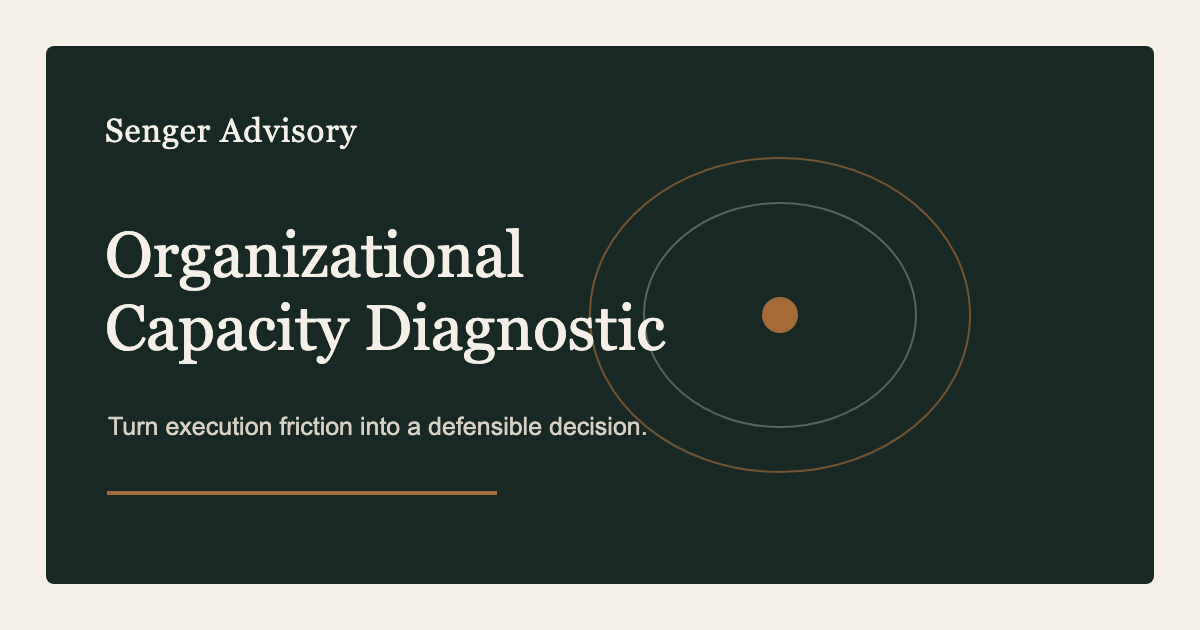
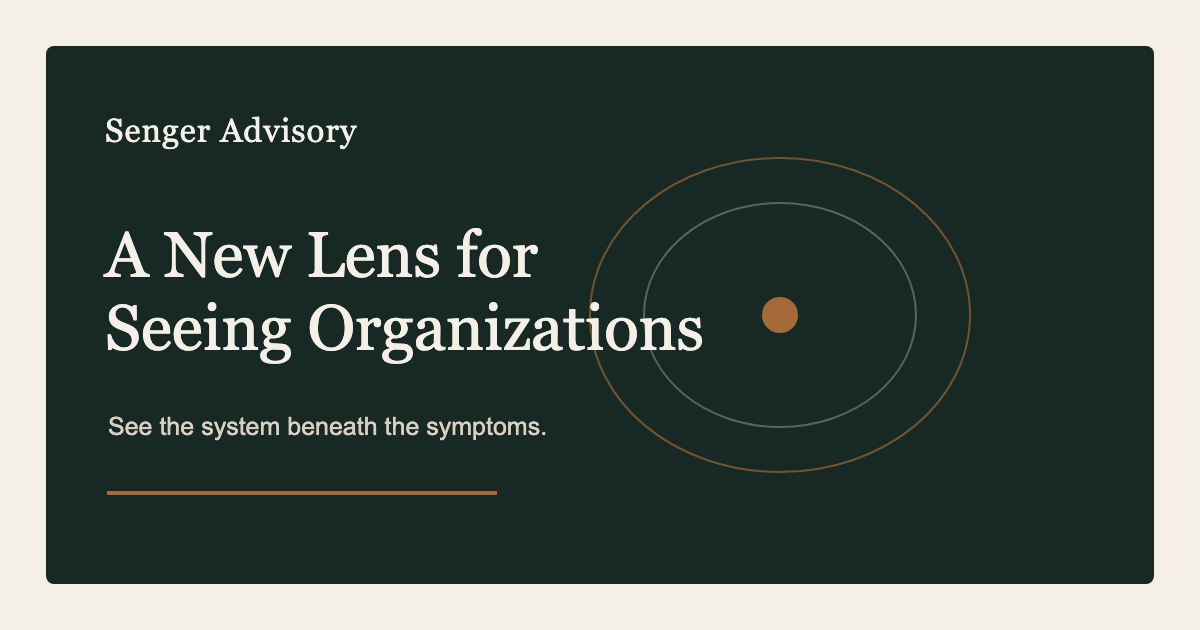
Position Senger Advisory around the Capacity Lens

Changed region(s): [[0.0925, 0.3619, 0.5858, 0.573], [0.0925, 0.6635, 0.555, 0.6937]]

diff --git a/index.html b/index.html
@@ -3,13 +3,13 @@
 <head>
   <meta charset="utf-8" />
   <meta name="viewport" content="width=device-width, initial-scale=1" />
-  <title>Senger Advisory | Organizational Capacity Diagnostic</title>
-  <meta name="description" content="Senger Advisory helps growing organizations measure and expand organizational capacity before complexity becomes friction, value leakage, and slower execution." />
+  <title>Senger Advisory | A New Lens for Seeing Organizations</title>
+  <meta name="description" content="The Capacity Lens helps leaders see how complexity, decisions, leadership, systems, and culture shape the way their organization actually works." />
 
   <meta property="og:type" content="website" />
   <meta property="og:site_name" content="Senger Advisory" />
-  <meta property="og:title" content="Senger Advisory | Organizational Capacity Diagnostic" />
-  <meta property="og:description" content="Senger Advisory helps growing organizations measure and expand organizational capacity before complexity becomes friction, value leakage, and slower execution." />
+  <meta property="og:title" content="Senger Advisory | The Capacity Lens" />
+  <meta property="og:description" content="A new lens for seeing how organizations actually work—and where complexity begins to slow execution." />
   <meta property="og:url" content="https://sengeradvisory.com/" />
     <meta property="og:image" content="https://sengeradvisory.com/assets/senger-advisory-social.png" />
     <meta property="og:image:type" content="image/png" />
@@ -31,7 +31,7 @@
         "name": "Senger Advisory",
         "url": "https://sengeradvisory.com/",
         "logo": "https://sengeradvisory.com/assets/favicon.svg",
-        "description": "Senger Advisory helps growing organizations measure and expand organizational capacity before complexity becomes friction, value leakage, and slower execution.",
+        "description": "Senger Advisory gives leaders a new lens for seeing how complexity, decisions, leadership, systems, and culture shape the way their organization actually works.",
         "founder": {"@id": "https://sengeradvisory.com/#jonathan-senger"},
         "knowsAbout": ["Organizational capacity", "Organizational diagnostics", "Decision velocity", "Leadership systems", "Operating rhythm", "AI readiness"]
       },
@@ -97,9 +97,9 @@
       </div>
 
       <div class="hero-copy">
-        <p class="eyebrow">Organizational Capacity Diagnostic</p>
+        <p class="eyebrow">A New Lens for Seeing Organizations</p>
 
-        <h1 class="sr-only">Capacity changes how work moves. Organizational Capacity determines whether growth becomes momentum or friction.</h1>
+        <h1 class="sr-only">The Capacity Lens helps leaders see how their organization actually works—and where complexity begins to slow execution.</h1>
 
         <p class="hero-narrative-title" aria-hidden="true">
           <span data-hero-title-primary>Growth should</span>
@@ -111,13 +111,13 @@
         </p>
 
         <div class="hero-actions">
-          <a class="button primary" href="diagnostic.html">Measure Organizational Capacity</a>
-          <a class="button secondary" href="#pattern">See the Pattern</a>
+          <a class="button primary" href="framework.html">Explore the Capacity Lens</a>
+          <a class="button secondary" href="#pattern">See Your Organization Differently</a>
         </div>
       </div>
 
       <p class="capacity-lens-prompt" data-lens-prompt aria-hidden="true">
-        Move through the system to reveal higher capacity.
+        Move through the system to reveal the Capacity Lens.
       </p>
     </section>
 
@@ -149,7 +149,7 @@
     <section id="framework" class="section framework-section">
       <div class="section-inner">
         <p class="eyebrow">The Framework</p>
-        <h2>Every organization has capacity. Almost none measure it.</h2>
+        <h2>Every organization has capacity. The Capacity Lens makes it visible.</h2>
 
        <div class="capacity-system" id="capacitySystem">
   <svg class="capacity-lines" viewBox="0 0 1000 700" preserveAspectRatio="none" aria-hidden="true">
@@ -212,8 +212,8 @@
 
     <section class="diagnosis-shift">
       <div class="diagnosis-copy">
-        <h2>Everyone has a prescription.</h2>
-        <h2>Very few have a diagnosis.</h2>
+        <h2>Everyone sees the symptoms.</h2>
+        <h2>Very few see the system.</h2>
       </div>
 
       <div class="prescription-list">
@@ -226,19 +226,19 @@
       </div>
 
       <p>
-        None of them matter if you don’t know where capacity is constrained.
+        A prescription only fits when you can see the conditions shaping how work moves.
       </p>
     </section>
 
     <section id="diagnostic" class="section diagnostic-section">
   <div class="section-inner diagnostic-layout">
     <div class="diagnostic-copy">
-      <p class="eyebrow">The Diagnostic</p>
-      <h2>Move from capacity signals to a defensible diagnosis.</h2>
+      <p class="eyebrow">From Lens to Evidence</p>
+      <h2>Turn a clearer view of the organization into a defensible path forward.</h2>
       <p>
         The free assessment indicates what your organization may be experiencing. The
-        Organizational Capacity Diagnostic gathers confidential, multi-perspective evidence
-        to identify the strongest constraint hypothesis and guide the right intervention.
+        Organizational Capacity Diagnostic applies the Capacity Lens through confidential,
+        multi-perspective evidence to identify the strongest constraint hypothesis and guide the right intervention.
       </p>
       <div class="hero-actions diagnostic-actions">
         <a class="button primary" href="diagnostic.html">Explore the Diagnostic</a>
@@ -277,8 +277,8 @@
           <p>Map the visible symptoms.</p>
         </div>
         <div>
-          <span>Diagnose</span>
-          <p>Locate the capacity constraint.</p>
+          <span>Interpret</span>
+          <p>See the system beneath them.</p>
         </div>
         <div>
           <span>Focus</span>
@@ -367,7 +367,7 @@
         <textarea name="message" rows="5" placeholder="Slower decisions, meeting drag, unclear ownership, change fatigue, AI readiness, execution slowdown..."></textarea>
       </label>
 
-      <button class="button primary" type="submit">Start the Diagnostic Conversation</button>
+      <button class="button primary" type="submit">Start a Capacity Conversation</button>
     </form>
   </div>
 </section>

diff --git a/diagnostic.html b/diagnostic.html
@@ -4,11 +4,11 @@
   <meta charset="utf-8" />
   <meta name="viewport" content="width=device-width, initial-scale=1" />
   <title>Organizational Capacity Diagnostic | Senger Advisory</title>
-  <meta name="description" content="A diagnostic for identifying where complexity is slowing execution, leaking value, and overloading leaders." />
+  <meta name="description" content="Apply the Capacity Lens through confidential, multi-perspective evidence to see how the organization works and choose what to change." />
   <meta property="og:type" content="website" />
   <meta property="og:site_name" content="Senger Advisory" />
   <meta property="og:title" content="Organizational Capacity Diagnostic | Senger Advisory" />
-  <meta property="og:description" content="A diagnostic for identifying where complexity is slowing execution, leaking value, and overloading leaders." />
+  <meta property="og:description" content="Apply the Capacity Lens through confidential, multi-perspective evidence to see how the organization works and choose what to change." />
   <meta property="og:url" content="https://sengeradvisory.com/diagnostic.html" />
     <meta property="og:image" content="https://sengeradvisory.com/assets/senger-advisory-social.png" />
     <meta property="og:image:type" content="image/png" />
@@ -40,15 +40,15 @@
   <main id="main-content">
     <section class="page-hero">
       <p class="eyebrow">The Diagnostic</p>
-      <h1>Diagnose capacity before prescribing change.</h1>
-      <p class="page-lede">Most organizations reach for interventions too quickly: reorganization, training, AI, coaching, new tools, new meetings. The diagnostic slows the instinct to prescribe and identifies where capacity is actually constrained.</p>
+      <h1>See the organization clearly before choosing what to change.</h1>
+      <p class="page-lede">Most organizations reach for interventions too quickly: reorganization, training, AI, coaching, new tools, new meetings. The diagnostic applies the Capacity Lens to reveal the system beneath the symptoms before leaders commit to a solution.</p>
     </section>
 
     <section class="section diagnostic-section">
       <div class="section-inner diagnostic-layout">
         <div class="diagnostic-copy">
           <p class="eyebrow">What it reveals</p>
-          <h2>The diagnostic moves beyond signals to a defensible organizational hypothesis.</h2>
+          <h2>The diagnostic turns the Capacity Lens into a defensible organizational hypothesis.</h2>
           <p>The free assessment suggests what an organization may be experiencing. The paid diagnostic investigates why: it gathers confidential evidence across informed perspectives, tests competing explanations, and connects the strongest constraint hypothesis to a recommended intervention.</p>
           <div class="hero-actions diagnostic-actions">
             <a class="button primary" href="contact.html">Explore the Diagnostic</a>
@@ -65,7 +65,7 @@
             <div><span>04</span><p>AI and technology projects stall because ownership is unclear.</p></div>
           </div>
           <div class="diagnostic-steps">
-            <div><span>Discover</span><p>Surface symptoms.</p></div><div><span>Diagnose</span><p>Locate constraints.</p></div><div><span>Focus</span><p>Target interventions.</p></div>
+            <div><span>Observe</span><p>Surface symptoms.</p></div><div><span>Interpret</span><p>See the system.</p></div><div><span>Focus</span><p>Target interventions.</p></div>
           </div>
         </div>
       </div>
@@ -80,8 +80,8 @@
           <article><span>02</span><h3>Participant design</h3><p>Select informed perspectives and identify coverage gaps before evidence collection begins.</p></article>
           <article><span>03</span><h3>Guided interviews</h3><p>Use one contextualized question protocol to gather confidential operating examples from every participant.</p></article>
           <article><span>04</span><h3>Evidence synthesis</h3><p>De-identify responses and examine convergence, meaningful variation, contradictions, and blind spots.</p></article>
-          <article><span>05</span><h3>Diagnostic finding</h3><p>Develop the strongest constraint hypothesis, show the supporting evidence, and test competing explanations.</p></article>
-          <article><span>06</span><h3>Intervention recommendation</h3><p>Translate the diagnosis into an appropriately scaled intervention, evidence plan, and reassessment path.</p></article>
+          <article><span>05</span><h3>Capacity finding</h3><p>Develop the strongest constraint hypothesis, show the supporting evidence, and test competing explanations.</p></article>
+          <article><span>06</span><h3>Focused intervention</h3><p>Translate the finding into an appropriately scaled intervention, evidence plan, and reassessment path.</p></article>
         </div>
       </div>
     </section>

diff --git a/framework.html b/framework.html
@@ -4,11 +4,11 @@
   <meta charset="utf-8" />
   <meta name="viewport" content="width=device-width, initial-scale=1" />
   <title>The Organizational Capacity Model | Senger Advisory</title>
-  <meta name="description" content="A management model for understanding why growing organizations slow down and how to diagnose capacity constraints before execution stalls." />
+  <meta name="description" content="The Capacity Lens gives leaders a new way to see how strategy, leadership, organizational systems, and execution shape one another." />
   <meta property="og:type" content="website" />
   <meta property="og:site_name" content="Senger Advisory" />
   <meta property="og:title" content="The Organizational Capacity Model | Senger Advisory" />
-  <meta property="og:description" content="A management model for understanding why growing organizations slow down and how to diagnose capacity constraints before execution stalls." />
+  <meta property="og:description" content="A new lens for seeing the system beneath organizational symptoms and understanding how work actually moves." />
   <meta property="og:url" content="https://sengeradvisory.com/framework.html" />
     <meta property="og:image" content="https://sengeradvisory.com/assets/senger-advisory-social.png" />
     <meta property="og:image:type" content="image/png" />
@@ -39,9 +39,9 @@
   </header>
   <main id="main-content">
     <section class="page-hero model-hero">
-      <p class="eyebrow">The Model</p>
+      <p class="eyebrow">The Capacity Lens</p>
       <h1>Growth creates complexity faster than organizational capacity evolves.</h1>
-      <p class="page-lede">The Organizational Capacity Model explains why execution slows inside otherwise successful companies. It connects strategy, leadership, operating systems, flow, and outcomes into one practical diagnostic lens.</p>
+      <p class="page-lede">The Capacity Lens gives leaders a new way to see the organization: how strategy, leadership, operating systems, flow, and outcomes shape one another beneath the visible symptoms.</p>
     </section>
 
     <section class="section model-section">
@@ -77,7 +77,7 @@
         <p class="eyebrow">The Shift</p>
         <h2>Organizational Capacity turns execution from a personality problem into a system problem.</h2>
         <div class="content-grid">
-          <article><h3>From blame to diagnosis</h3><p>Instead of asking who is not keeping up, the model asks where the system is constrained.</p></article>
+          <article><h3>From blame to visibility</h3><p>Instead of asking who is not keeping up, the lens reveals the conditions shaping how work moves.</p></article>
           <article><h3>From symptoms to signals</h3><p>Slow decisions, meeting drag, change fatigue, and unclear ownership become measurable signals.</p></article>
           <article><h3>From prescriptions to fit</h3><p>AI, reorgs, training, and coaching are useful only when aimed at the right constraint.</p></article>
         </div>
@@ -101,7 +101,7 @@
 
     <section class="section connect-section compact-cta">
       <div class="section-inner connect-layout">
-        <div class="connect-copy"><p class="eyebrow">Next</p><h2>Measure the capacity your strategy depends on.</h2></div>
+        <div class="connect-copy"><p class="eyebrow">Next</p><h2>See the capacity your strategy depends on.</h2></div>
         <a class="button primary" href="diagnostic.html">Explore the Diagnostic</a>
       </div>
     </section>

diff --git a/platform-journey.html b/platform-journey.html
@@ -4,7 +4,7 @@
   <meta charset="utf-8" />
   <meta name="viewport" content="width=device-width, initial-scale=1" />
   <title>Platform Journey | Senger Advisory</title>
-  <meta name="description" content="Follow the Senger Advisory Organizational Capacity Platform from executive concern through confidential diagnosis, focused intervention, and measurable next action." />
+  <meta name="description" content="See how the Capacity Lens moves from an executive concern to confidential evidence, a shared organizational view, focused action, and reassessment." />
   <meta property="og:type" content="website" />
   <meta property="og:site_name" content="Senger Advisory" />
   <meta property="og:title" content="Platform Journey | Senger Advisory" />
@@ -36,14 +36,14 @@
     <section class="journey-orientation" data-orientation>
       <div>
         <p class="eyebrow">Executive Sponsor Journey · approximately 5 minutes</p>
-        <h1>See how organizational uncertainty becomes a defensible decision.</h1>
-        <p>Follow one executive sponsor through the same governed process your leadership team would experience—from the first concern through diagnosis, intervention, and reassessment.</p>
+        <h1>See how an organization comes into focus.</h1>
+        <p>Follow one executive sponsor as the Capacity Lens moves from an initial concern to a shared organizational view, focused intervention, and reassessment.</p>
         <div class="orientation-actions"><button class="button primary" type="button" data-start-journey>Start the Journey</button><button class="button secondary" type="button" data-jump-destination>Jump to the Capacity Operating Brief</button></div>
         <small class="demo-data-note">Fictional case · Nothing is saved, submitted, or connected to a live client workspace.</small>
       </div>
       <aside class="orientation-map" aria-label="Journey overview">
         <p>What you will experience</p>
-        <ol><li><span>01</span>Frame the decision</li><li><span>02</span>Build the perspective</li><li><span>03</span>Reach a defensible finding</li><li><span>04</span>Turn diagnosis into action</li><li><span>05</span>Operate, learn, and reassess</li></ol>
+        <ol><li><span>01</span>Frame the decision</li><li><span>02</span>Build the perspective</li><li><span>03</span>Bring the system into view</li><li><span>04</span>Turn insight into action</li><li><span>05</span>Operate, learn, and reassess</li></ol>
       </aside>
     </section>
     <section class="executive-journey" data-journey hidden aria-live="polite">
@@ -66,7 +66,7 @@
       </section>
     </section>
     <section class="journey-conversion">
-      <div><p class="eyebrow">Your organization is not fictional</p><h2>What decision is execution friction putting at risk?</h2><p>Begin with a lightweight signal, or discuss whether the full diagnostic fits the decision you need to make.</p></div>
+      <div><p class="eyebrow">Your organization is not fictional</p><h2>What would become possible if you could see the system more clearly?</h2><p>Begin with a lightweight signal, or discuss whether the full diagnostic fits the decision you need to make.</p></div>
       <div><a class="button primary" href="contact.html">Request a Guided Walkthrough</a><a class="button secondary" href="assessment.html">Take the Free Assessment</a></div>
     </section>
   </main>

diff --git a/about.html b/about.html
@@ -4,11 +4,11 @@
   <meta charset="utf-8" />
   <meta name="viewport" content="width=device-width, initial-scale=1" />
   <title>About Senger Advisory | Organizational Capacity for Growth</title>
-  <meta name="description" content="Senger Advisory helps leaders diagnose and expand organizational capacity so growth does not become friction." />
+  <meta name="description" content="Senger Advisory gives leaders a new lens for seeing how their organization works and where capacity can expand." />
   <meta property="og:type" content="website" />
   <meta property="og:site_name" content="Senger Advisory" />
   <meta property="og:title" content="About Senger Advisory | Organizational Capacity for Growth" />
-  <meta property="og:description" content="Senger Advisory helps leaders diagnose and expand organizational capacity so growth does not become friction." />
+  <meta property="og:description" content="Senger Advisory gives leaders a new lens for seeing how their organization works and where capacity can expand." />
   <meta property="og:url" content="https://sengeradvisory.com/about.html" />
     <meta property="og:image" content="https://sengeradvisory.com/assets/senger-advisory-social.png" />
     <meta property="og:image:type" content="image/png" />
@@ -55,7 +55,7 @@
     <section class="section">
       <div class="section-inner two-column">
         <div><p class="eyebrow">Point of View</p><h2>Leadership matters. So does the system leaders are operating inside.</h2></div>
-        <div class="page-copy-block"><p>Senger Advisory helps executives see what is happening beneath visible symptoms: slow decisions, unclear ownership, meeting debt, change fatigue, and technology initiatives that do not translate into execution leverage.</p><p>The work begins with diagnosis. Once the constraint is visible, interventions become focused: leadership alignment, decision rights, operating rhythm, AI readiness, execution systems, and capacity expansion.</p></div>
+        <div class="page-copy-block"><p>Senger Advisory helps executives see what is happening beneath visible symptoms: slow decisions, unclear ownership, meeting debt, change fatigue, and technology initiatives that do not translate into execution leverage.</p><p>The Capacity Lens makes the underlying system visible. Once leaders can see the conditions shaping how work moves, interventions become focused: leadership alignment, decision rights, operating rhythm, AI readiness, execution systems, and capacity expansion.</p></div>
       </div>
     </section>
   </main>

diff --git a/contact.html b/contact.html
@@ -41,18 +41,18 @@
     <section class="page-hero dark-page-hero">
       <p class="eyebrow">Connect</p>
       <h1>Start with what you’re seeing.</h1>
-      <p class="page-lede">If your organization has momentum but execution feels heavier than it should, the right first move is diagnosis.</p>
+      <p class="page-lede">If your organization has momentum but execution feels heavier than it should, the first move is seeing the system clearly.</p>
     </section>
     <section class="section connect-section contact-page-section">
       <div class="section-inner connect-layout">
-        <div class="connect-copy"><p class="eyebrow">Diagnostic Inquiry</p><h2>Share the friction. We’ll look for the capacity signal.</h2><p>Use this form for diagnostic conversations, presentation follow-up, or leadership-team inquiries.</p></div>
+        <div class="connect-copy"><p class="eyebrow">Capacity Conversation</p><h2>Share what you’re seeing. We’ll help you see what may be shaping it.</h2><p>Use this form for diagnostic conversations, presentation follow-up, or leadership-team inquiries.</p></div>
         <form class="contact-form" name="diagnostic-inquiry" method="POST" netlify action="/success.html">
           <input type="hidden" name="form-name" value="diagnostic-inquiry" />
           <label><span>Name</span><input type="text" name="name" autocomplete="name" required /></label>
           <label><span>Email</span><input type="email" name="email" autocomplete="email" required /></label>
           <label><span>Organization</span><input type="text" name="organization" autocomplete="organization" /></label>
           <label><span>What are you seeing?</span><textarea name="message" rows="6" placeholder="Slower decisions, meeting drag, unclear ownership, change fatigue, AI readiness, execution slowdown..."></textarea></label>
-          <button class="button primary" type="submit">Start the Diagnostic Conversation</button>
+          <button class="button primary" type="submit">Start a Capacity Conversation</button>
         </form>
       </div>
     </section>

diff --git a/signs.html b/signs.html
@@ -41,7 +41,7 @@
     <section class="page-hero dark-page-hero">
       <p class="eyebrow">Field Guide</p>
       <h1>Signs you’ve outgrown your organizational capacity.</h1>
-      <p class="page-lede">Growth rarely announces that the operating system is under strain. It shows up as small, familiar patterns that leaders can easily normalize.</p>
+      <p class="page-lede">Growth rarely announces that the operating system is under strain. The Capacity Lens turns small, familiar patterns into a clearer view of the system beneath them.</p>
     </section>
 
     <section class="section">
@@ -68,8 +68,8 @@
 
     <section class="section connect-section compact-cta">
       <div class="section-inner connect-layout">
-        <div class="connect-copy"><p class="eyebrow">Start Here</p><h2>Find the constraint before choosing the intervention.</h2></div>
-        <a class="button primary" href="contact.html">Start the Diagnostic Conversation</a>
+        <div class="connect-copy"><p class="eyebrow">Start Here</p><h2>See the system before choosing the intervention.</h2></div>
+        <a class="button primary" href="contact.html">Start a Capacity Conversation</a>
       </div>
     </section>
   </main>

diff --git a/script.js b/script.js
@@ -71,9 +71,9 @@ if ("IntersectionObserver" in window) {
       lede: "A local bottleneck becomes delay, rerouting, and friction across the organization."
     },
     resolution: {
-      primary: "Capacity changes",
-      secondary: "how work moves.",
-      lede: "Increase capacity and the same organization moves with greater speed, clarity, and confidence."
+      primary: "Now you can see",
+      secondary: "how the system moves.",
+      lede: "The Capacity Lens makes the forces shaping speed, clarity, and coordination visible."
     }
   };
 
@@ -114,8 +114,8 @@ if ("IntersectionObserver" in window) {
   window.setTimeout(() => {
     if (!resolved) {
       prompt.textContent = coarsePointer
-        ? "Touch and drag through the system to reveal higher capacity."
-        : "Move through the system to reveal higher capacity.";
+        ? "Touch and drag through the system to reveal the Capacity Lens."
+        : "Move through the system to reveal the Capacity Lens.";
       prompt.classList.add("visible");
     }
   }, 4800);

diff --git a/assessment.html b/assessment.html
@@ -44,7 +44,7 @@
       <div>
         <p class="eyebrow">Free Organizational Capacity Assessment</p>
         <h1>See where capacity may be under pressure.</h1>
-        <p class="page-lede">Use eighteen observable behaviors across six domains to identify likely capacity signals in about five minutes. This assessment offers directional insight; it is not the Organizational Capacity Diagnostic.</p>
+        <p class="page-lede">Take a first look through the Capacity Lens. Eighteen observable behaviors across six domains reveal likely capacity signals in about five minutes. This assessment offers directional insight; it is not the Organizational Capacity Diagnostic.</p>
       </div>
       <aside class="assessment-expectation" aria-label="Assessment details">
         <span>18 questions</span>

diff --git a/insights.html b/insights.html
@@ -41,7 +41,7 @@
     <section class="page-hero">
       <p class="eyebrow">Insights</p>
       <h1>Ideas for leaders scaling beyond their current operating system.</h1>
-      <p class="page-lede">Not blog posts. Working notes from the emerging discipline of Organizational Capacity.</p>
+      <p class="page-lede">Working notes that develop the Capacity Lens: a clearer way to understand how organizations grow, strain, adapt, and move.</p>
     </section>
 
     <section class="section insights-section">
